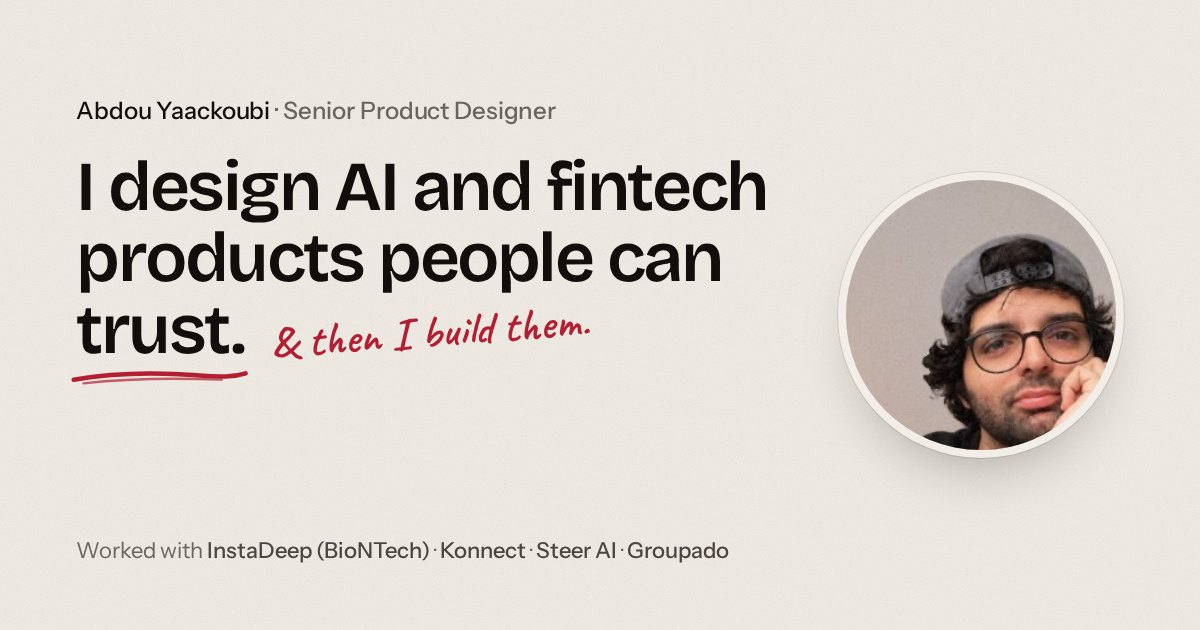
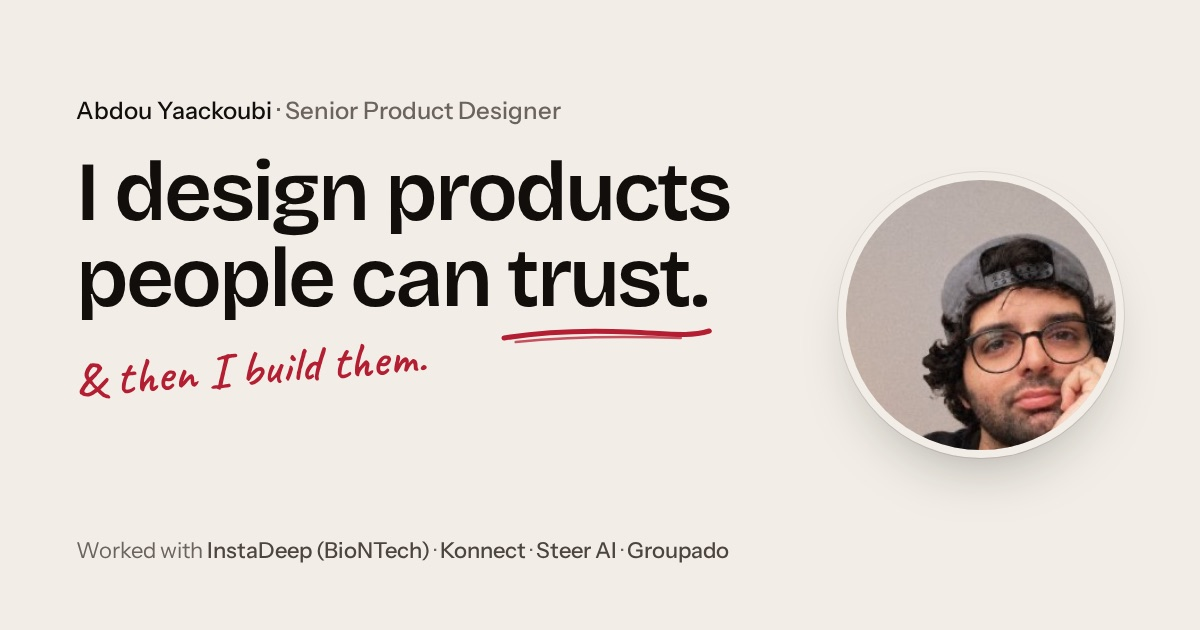
The share card says what the site says again
The card still read "I design AI and fintech products people can
trust." -- the exact pairing the homepage dropped after a CEO said not
to limit the claim to two verticals. Anyone sharing a link was handing
over the retired positioning. The new card carries the headline the
site actually uses, with "& then I build them." on its own line.

AND THE URL MOVES WITH IT. A scraper caches a preview against the
og:image URL and does not come back: when the card was redrawn last
time, every link already posted anywhere kept showing the old picture
because the URL had not changed. The filename is stable by design, so
the URL now carries the same ?v= content hash every other asset gets.
There is no header or meta tag that beats this -- LinkedIn, Slack and
the rest key on the URL, so the URL has to move when the file does.

A test asserts the advertised hash is a hash of the bytes that will
actually be served, so editing the card and forgetting to rebuild
cannot leave the two disagreeing.

Changed region(s): [[0.0617, 0.2413, 0.6475, 0.6333], [0.1233, 0.1508, 0.4625, 0.2111]]

diff --git a/projects/steer.html b/projects/steer.html
@@ -12,7 +12,7 @@
   <meta property="og:title" content="Steer - Abdou Yaackoubi">
   <meta property="og:description" content="A C2C used-car marketplace built on verified inspection data and a pricing algorithm. Sole designer and product lead, with 15 user interviews.">
   <meta property="og:url" content="https://abdouyaackoubi.com/projects/steer">
-  <meta property="og:image" content="https://abdouyaackoubi.com/site/share-card.jpg">
+  <meta property="og:image" content="https://abdouyaackoubi.com/site/share-card.jpg?v=d5adeda3">
   <meta property="og:image:alt" content="Steer - End-to-end solutions to reinvent the automotive retail industry">
   <meta property="og:image:width" content="1200">
   <meta property="og:image:height" content="630">

diff --git a/projects/groupado.html b/projects/groupado.html
@@ -12,7 +12,7 @@
   <meta property="og:title" content="Groupado - Abdou Yaackoubi">
   <meta property="og:description" content="A marketplace for turning what you know into experiences others can join, with an SEO-led homepage structure rather than one retrofitted after.">
   <meta property="og:url" content="https://abdouyaackoubi.com/projects/groupado">
-  <meta property="og:image" content="https://abdouyaackoubi.com/site/share-card.jpg">
+  <meta property="og:image" content="https://abdouyaackoubi.com/site/share-card.jpg?v=d5adeda3">
   <meta property="og:image:alt" content="Groupado - A platform where anyone with a skill can teach it">
   <meta property="og:image:width" content="1200">
   <meta property="og:image:height" content="630">

diff --git a/projects/konnect.html b/projects/konnect.html
@@ -12,7 +12,7 @@
   <meta property="og:title" content="Konnect - Abdou Yaackoubi">
   <meta property="og:description" content="One of the first digital wallets in Tunisia. Sole designer among 15+ engineers, rebuilding the payment application end to end for iOS, Android and web.">
   <meta property="og:url" content="https://abdouyaackoubi.com/projects/konnect">
-  <meta property="og:image" content="https://abdouyaackoubi.com/site/share-card.jpg">
+  <meta property="og:image" content="https://abdouyaackoubi.com/site/share-card.jpg?v=d5adeda3">
   <meta property="og:image:alt" content="Konnect - One of the first digital wallets in Tunisia">
   <meta property="og:image:width" content="1200">
   <meta property="og:image:height" content="630">

diff --git a/projects/instadeep.html b/projects/instadeep.html
@@ -12,7 +12,7 @@
   <meta property="og:title" content="InstaDeep - Abdou Yaackoubi">
   <meta property="og:description" content="Design highlights from InstaDeep: DeepPCB, InstaNovo, and the design system behind every product surface.">
   <meta property="og:url" content="https://abdouyaackoubi.com/projects/instadeep">
-  <meta property="og:image" content="https://abdouyaackoubi.com/site/share-card.jpg">
+  <meta property="og:image" content="https://abdouyaackoubi.com/site/share-card.jpg?v=d5adeda3">
   <meta property="og:image:alt" content="InstaDeep - Three product surfaces and the design system they all run on.">
   <meta property="og:image:width" content="1200">
   <meta property="og:image:height" content="630">

diff --git a/index.html b/index.html
@@ -12,7 +12,7 @@
   <meta property="og:title" content="Abdou Yaackoubi - Senior Product Designer">
   <meta property="og:description" content="Senior product designer. Six years across fintech, automotive retail and AI: designing products and building them.">
   <meta property="og:url" content="https://abdouyaackoubi.com/work">
-  <meta property="og:image" content="https://abdouyaackoubi.com/site/share-card.jpg">
+  <meta property="og:image" content="https://abdouyaackoubi.com/site/share-card.jpg?v=d5adeda3">
   <meta property="og:image:alt" content="Abdou Yaackoubi - Senior Product Designer">
   <meta property="og:image:width" content="1200">
   <meta property="og:image:height" content="630">

diff --git a/work.html b/work.html
@@ -12,7 +12,7 @@
   <meta property="og:title" content="Abdou Yaackoubi - Senior Product Designer">
   <meta property="og:description" content="Senior product designer. Six years across fintech, automotive retail and AI: designing products and building them.">
   <meta property="og:url" content="https://abdouyaackoubi.com/work">
-  <meta property="og:image" content="https://abdouyaackoubi.com/site/share-card.jpg">
+  <meta property="og:image" content="https://abdouyaackoubi.com/site/share-card.jpg?v=d5adeda3">
   <meta property="og:image:alt" content="Abdou Yaackoubi - Senior Product Designer">
   <meta property="og:image:width" content="1200">
   <meta property="og:image:height" content="630">

diff --git a/about.html b/about.html
@@ -12,7 +12,7 @@
   <meta property="og:title" content="About - Abdou Yaackoubi">
   <meta property="og:description" content="Senior product designer across AI, blockchain and fintech: what I work on, and why I build the things I design.">
   <meta property="og:url" content="https://abdouyaackoubi.com/about">
-  <meta property="og:image" content="https://abdouyaackoubi.com/site/share-card.jpg">
+  <meta property="og:image" content="https://abdouyaackoubi.com/site/share-card.jpg?v=d5adeda3">
   <meta property="og:image:alt" content="Abdou Yaackoubi - Senior Product Designer, Tunis, Tunisia">
   <meta property="og:image:width" content="1200">
   <meta property="og:image:height" content="630">

diff --git a/404.html b/404.html
@@ -10,7 +10,7 @@
   <meta property="og:site_name" content="Abdou Yaackoubi">
   <meta property="og:title" content="Page not found - Abdou Yaackoubi">
   <meta property="og:description" content="That link points at something this site no longer has.">
-  <meta property="og:image" content="https://abdouyaackoubi.com/site/share-card.jpg">
+  <meta property="og:image" content="https://abdouyaackoubi.com/site/share-card.jpg?v=d5adeda3">
   <meta property="og:image:alt" content="Abdou Yaackoubi - Senior Product Designer">
   <meta property="og:image:width" content="1200">
   <meta property="og:image:height" content="630">

diff --git a/tools/test_build.py b/tools/test_build.py
@@ -3272,7 +3272,10 @@ class TestShareCards(BuildCase):
         for page in self.pages():
             for match in re.finditer(r'property="og:image" content="([^"]+)"',
                                      self.html(page)):
-                referenced.add(match.group(1).replace(base, ""))
+                # The URL carries a ?v= hash so scrapers refetch a
+                # redrawn card; the file on disk does not.
+                referenced.add(
+                    match.group(1).replace(base, "").split("?", 1)[0])
         self.assertTrue(referenced, "no share cards referenced -- test is vacuous")
         self.assertEqual(referenced & untracked, set())
         for rel in referenced:
@@ -3301,8 +3304,38 @@ class TestShareCards(BuildCase):
             with self.subTest(page=page):
                 self.assertRegex(
                     self.html(page),
-                    r'property="og:image" content="[^"]*%s"' % re.escape(card),
+                    r'property="og:image" content="[^"]*%s(?:\?v=[0-9a-f]+)?"'
+                    % re.escape(card),
                     "%s previews as something other than the site card" % page)
+
+    def test_the_card_url_moves_when_the_card_does(self):
+        """A scraper caches the preview against the URL and never returns.
+
+        The card was redrawn and every link already posted -- and every
+        new one -- kept showing the old picture, because LinkedIn, Slack
+        and the rest key on the URL and the URL had not changed. There
+        is no header, no meta tag and no "please refetch" that beats
+        this; the URL has to move when the file does.
+
+        Asserted against a hash of the file's own bytes, so editing the
+        card and forgetting to rebuild cannot leave the two disagreeing.
+        """
+        sys.path.insert(0, str(ROOT))
+        from build import asset_v
+        card = self.site["shareImage"]
+        want = asset_v(card)
+        self.assertRegex(want, r"^\?v=[0-9a-f]{8}$",
+                         "the card has no content hash to advertise")
+        for page in self.pages():
+            with self.subTest(page=page):
+                m = re.search(r'property="og:image" content="([^"]+)"',
+                              self.html(page))
+                self.assertIsNotNone(m, "%s advertises no card" % page)
+                self.assertTrue(
+                    m.group(1).endswith(want),
+                    "%s points social at %r, which is not the hash of the "
+                    "file it will serve (%s) -- posted links keep the old "
+                    "preview" % (page, m.group(1)[-24:], want))
 
     def test_the_site_card_is_the_size_it_claims(self):
         """og:image:width and height let a scraper lay the card out before

diff --git a/build.py b/build.py
@@ -915,10 +915,18 @@ def head(title, description, *, depth=0, image=None, page_url="",
         dims = ('\n  <meta property="og:image:width" content="%d">'
                 '\n  <meta property="og:image:height" content="%d">' % size
                 if size else "")
+        # The hash, on this URL above all others. A scraper caches a
+        # preview against the og:image URL and does not come back: when
+        # the card was redrawn, every link already posted anywhere --
+        # and every new one -- kept showing the old picture, because the
+        # URL had not changed. A URL is the only thing LinkedIn, Slack
+        # and the rest key on, so the URL has to move when the file
+        # does. Every one of them handles a query string; what none of
+        # them handles is the same URL meaning two different images.
         og_image = (
-            '\n  <meta property="og:image" content="%s">'
+            '\n  <meta property="og:image" content="%s%s">'
             '\n  <meta property="og:image:alt" content="%s">%s'
-            % (e(abs_url(img, depth)),
+            % (e(abs_url(img, depth)), asset_v(img),
                e(image_alt or "%s - %s" % (SITE["name"], SITE["title"])),
                dims)
         )
